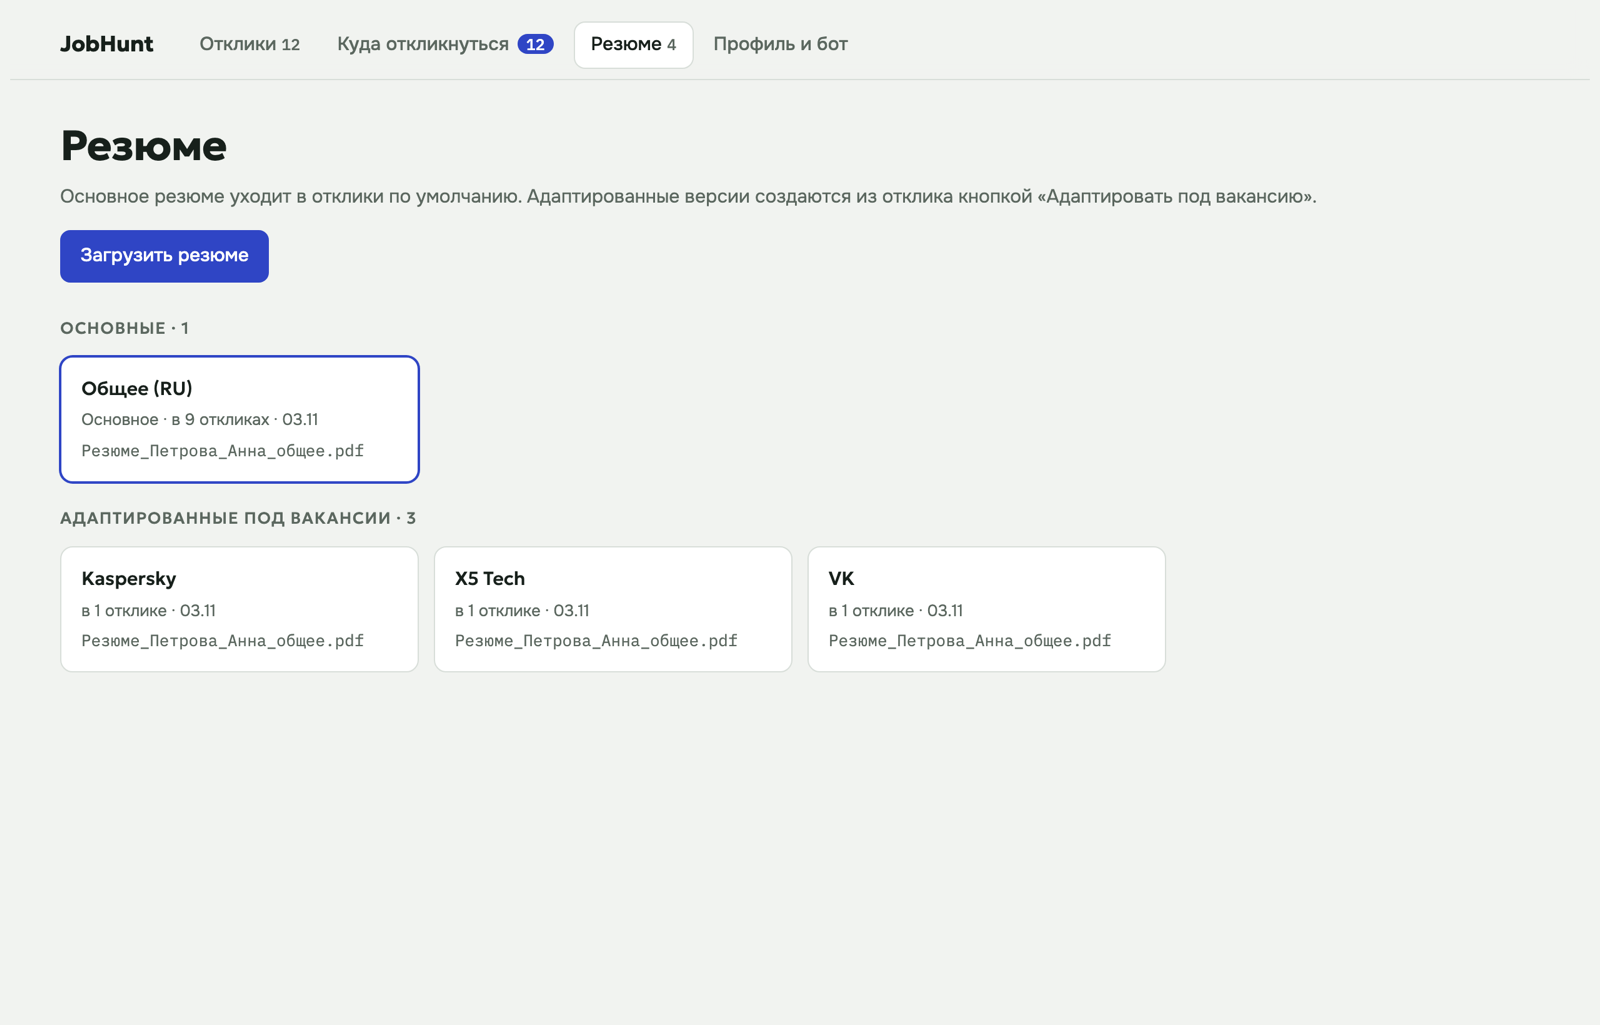
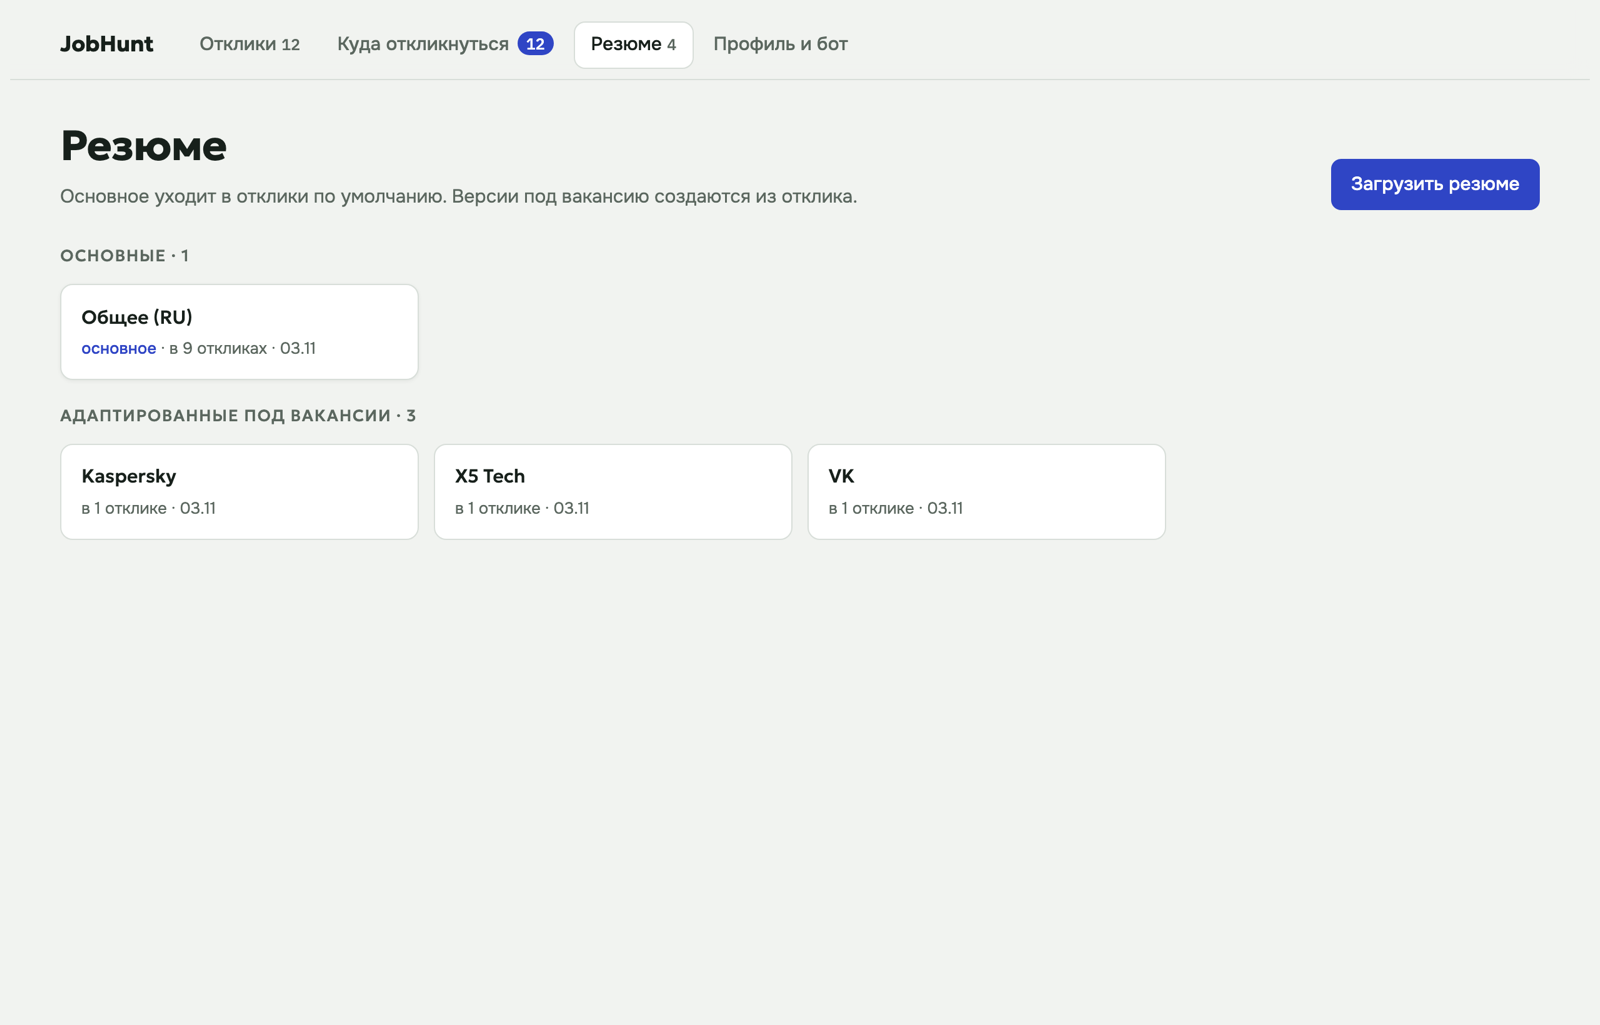
Интерфейс по правилам stageshow: один акцент, без повторов в строках, строка трекера открывается кликом

diff --git a/web/app.js b/web/app.js
@@ -36,6 +36,12 @@
     if (d <= 3) return { cls: 'soon-d', t: 'через ' + d + ' дн.' };
     return { cls: '', t: 'через ' + d + ' дн.' };
   }
+  function prettyName(n) {
+    var s = String(n).replace(/^(Резюме|Resume|CV)_/i, '');
+    var drop = [profile.last_name, profile.first_name, profile.middle_name, 'PM'].filter(Boolean);
+    for (var i = 0; i < 3; i++) drop.forEach(function (w) { s = s.replace(new RegExp('^' + w + '_', 'i'), ''); });
+    return s.replace(/_/g, ' ').trim() || n;
+  }
   function stKey(a) { return STMAP[a.status] ? a.status : 'ready'; }
 
   function api(method, url, body) {
@@ -106,7 +112,7 @@
       : '<button type="button" class="lnk ghost" data-act="edit" data-id="' + id + '">Добавить ссылку</button>';
     var track = a.track ? '<span class="track">' + esc(a.track) + '</span>' : '';
     var resume = '<span class="lbl m">Резюме</span>' + (a.resume
-      ? (a.resume_id ? '<a class="file lnk" href="/api/resumes/' + a.resume_id + '/file" target="_blank">' + esc(a.resume).replace(/_/g, '_<wbr>') + '</a>' : '<span class="file">' + esc(a.resume).replace(/_/g, '_<wbr>') + '</span>')
+      ? (a.resume_id ? '<a class="rlink" href="/api/resumes/' + a.resume_id + '/file" target="_blank" title="' + esc(a.resume) + '">' + esc(prettyName(a.resume)) + '</a>' : '<span class="rlink">' + esc(prettyName(a.resume)) + '</span>')
       : '<span class="role">Не указано</span>');
     var tags = '';
     if (a.cover || a.cover_text) tags += '<span class="tag">сопроводительное</span>';
@@ -127,9 +133,8 @@
     if (a.next) next += '<div class="nx">' + esc(a.next) + (a.next_at ? ' <span class="file">· ' + fmt(a.next_at) + '</span>' : '') + '</div>';
     if (due) next += '<span class="due ' + due.cls + '">' + due.t + '</span>';
     if (a.notes) next += '<p class="nt">' + esc(a.notes) + '</p>';
-    next += '<div class="row-actions"><button type="button" class="mini" data-act="edit" data-id="' + id + '">Изменить</button></div>';
 
-    return '<article class="row st-' + st + (st === 'skipped' ? ' is-skipped' : '') + '">' +
+    return '<article class="row st-' + st + (st === 'skipped' ? ' is-skipped' : '') + '" data-open="' + id + '" tabindex="0" aria-label="' + esc(a.company + ' — ' + a.role) + '">' +
       '<div class="c-main"><div class="co">' + esc(a.company) + '</div><div class="role">' + esc(a.role) + '</div><div class="meta">' + track + link + '</div></div>' +
       '<div class="c-resume">' + resume + '</div>' +
       '<div class="c-date"><span class="lbl m">Дата</span>' + date + '</div>' +
@@ -175,11 +180,20 @@
   $('#sort').addEventListener('change', function (e) { sortBy = e.target.value; try { localStorage.setItem('jh.sort', sortBy); } catch (x) {} renderApps(); });
   $('#list').addEventListener('change', function (e) { var s = e.target.closest('select[data-act="status"]'); if (s) changeStatus(+s.dataset.id, s.value); });
   $('#list').addEventListener('click', function (e) {
-    var b = e.target.closest('button[data-act]'); if (!b) return;
+    var b = e.target.closest('button[data-act]');
+    if (!b) {  // клик по строке (не по ссылке, статусу или кнопке) открывает отклик
+      var row = e.target.closest('[data-open]');
+      if (row && !e.target.closest('a, select, label, button')) openEditor(+row.dataset.open);
+      return;
+    }
     var id = +b.dataset.id;
     if (b.dataset.act === 'edit') openEditor(id);
     if (b.dataset.act === 'applied') changeStatus(id, 'applied');
     if (b.dataset.act === 'go') goApply(byId(id));
+  });
+  $('#list').addEventListener('keydown', function (e) {
+    var row = e.target.closest('[data-open]');
+    if (row && e.target === row && (e.key === 'Enter' || e.key === ' ')) { e.preventDefault(); openEditor(+row.dataset.open); }
   });
   $('#add').addEventListener('click', function () { openEditor(null); });
 
@@ -201,7 +215,7 @@
     var groups = { base: 'Основные', tailored: 'Адаптированные' };
     Object.keys(groups).forEach(function (k) {
       var list = resumes.filter(function (r) { return r.kind === k; });
-      if (list.length) opts += '<optgroup label="' + groups[k] + '">' + list.map(function (r) { return '<option value="' + r.id + '">' + esc(r.name) + (r.is_main ? ' — основное' : '') + '</option>'; }).join('') + '</optgroup>';
+      if (list.length) opts += '<optgroup label="' + groups[k] + '">' + list.map(function (r) { return '<option value="' + r.id + '">' + esc(k === 'tailored' ? prettyName(r.name) : r.name) + (r.is_main ? ' — основное' : '') + '</option>'; }).join('') + '</optgroup>';
     });
     F('resume').innerHTML = opts;
     F('resume').value = sel || '';
@@ -331,15 +345,18 @@
       var g = ago(v.found_at);
       if (g !== last) { html += '<div class="vgroup">Найдено: ' + g + '</div>'; last = g; }
       var applied = v.state === 'applied', saved = v.state === 'saved';
-      html += '<div class="vrow' + (v.watch ? ' watch' : '') + '" data-id="' + v.id + '">' +
-        '<div><div class="vt"><a href="' + esc(safeUrl(v.url)) + '" target="_blank" rel="noopener">' + esc(v.title) + '</a></div>' +
-        '<div class="vm"><span class="vc">' + esc(v.company) + '</span>' + (v.meta && v.source === 'hh.ru' ? '<span>' + esc(v.meta.slice(0, 140)) + '</span>' : '') +
-        '<span class="src">' + esc(v.source) + '</span><span class="score' + (v.score >= 30 ? ' hi' : '') + '" title="Насколько подходит под ваш профиль">' + v.score + '</span></div></div>' +
+      var src = v.source && v.source.toLowerCase() !== String(v.company).toLowerCase() ? '<span class="src">' + esc(v.source) + '</span>' : '';
+      var meta = v.meta && v.source === 'hh.ru' ? '<span>' + esc(v.meta.split(' · ').slice(0, 3).join(' · ')) + '</span>' : '';
+      var fit = v.score >= 35 ? '<span class="fit">подходит</span>' : '';
+      var mine = v.watch && v.source === 'hh.ru' ? '<span class="mine">ваш список</span>' : '';
+      html += '<div class="vrow" data-id="' + v.id + '" tabindex="-1">' +
+        '<div class="vtext"><div class="vt"><a href="' + esc(safeUrl(v.url)) + '" target="_blank" rel="noopener">' + esc(v.title) + '</a>' + fit + '</div>' +
+        '<div class="vm"><span class="vc">' + esc(v.company) + '</span>' + meta + src + mine + '</div></div>' +
         '<div class="va">' +
         (applied ? '<span class="tag">отклик есть</span>' :
-          '<button class="btn primary" data-v="apply">' + (saved ? 'Открыть и заполнить' : 'Откликнуться') + '</button>' +
-          '<button class="mini" data-v="prep" title="Завести отклик и адаптировать резюме и письмо с ИИ">С адаптацией</button>') +
-        (v.state === 'hidden' ? '<button class="mini" data-v="unhide">Вернуть</button>' : '<button class="mini ghost" data-v="hide">Скрыть</button>') +
+          '<button class="mini ghost vhide" data-v="' + (v.state === 'hidden' ? 'unhide' : 'hide') + '">' + (v.state === 'hidden' ? 'Вернуть' : 'Скрыть') + '</button>' +
+          '<button class="mini vprep" data-v="prep" title="Завести отклик и адаптировать резюме и письмо с ИИ">С адаптацией</button>' +
+          '<button class="btn vgo" data-v="apply">' + (saved ? 'Открыть и заполнить' : 'Откликнуться') + '</button>') +
         '</div></div>';
     });
     if (list.length > vacShown) html += '<button class="btn more" id="vmore">Показать ещё ' + Math.min(120, list.length - vacShown) + ' из ' + (list.length - vacShown) + '</button>';
@@ -379,11 +396,6 @@
   /* =================== РЕЗЮМЕ =================== */
   function loadResumesData() { return api('GET', '/api/resumes').then(function (d) { resumes = d; $('#n-res').textContent = d.length || ''; }); }
   function loadResumes() { return loadResumesData().then(renderResumes); }
-  function prettyName(n) {
-    var s = String(n).replace(/^(Резюме|Resume|CV)_/i, '');
-    [profile.last_name, profile.first_name, 'PM'].forEach(function (w) { if (w) s = s.replace(new RegExp('^' + w + '_', 'i'), ''); });
-    return s.replace(/_/g, ' ').trim() || n;
-  }
   function renderResumes() {
     var html = '';
     [['base', 'Основные'], ['tailored', 'Адаптированные под вакансии']].forEach(function (g) {
@@ -392,8 +404,7 @@
       html += '<div class="rsec">' + g[1] + ' · ' + list.length + '</div>';
       html += list.map(function (r) {
         return '<button class="rcard' + (r.is_main ? ' main' : '') + '" data-r="' + r.id + '"><span class="rn">' + esc(r.kind === 'tailored' ? prettyName(r.name) : r.name) + '</span>' +
-          '<span class="rm">' + (r.is_main ? 'Основное · ' : '') + (r.used ? 'в ' + r.used + ' ' + plural(r.used, ['отклике', 'откликах', 'откликах']) + ' · ' : '') + fmt(r.created_at.slice(0, 10)) + '</span>' +
-          '<span class="rm file">' + esc(r.file) + '</span></button>';
+          '<span class="rm">' + (r.is_main ? '<span class="main-tag">основное</span> · ' : '') + (r.used ? 'в ' + r.used + ' ' + plural(r.used, ['отклике', 'откликах', 'откликах']) + ' · ' : '') + fmt(r.created_at.slice(0, 10)) + '</span></button>';
       }).join('');
     });
     $('#rlist').innerHTML = html || '<div class="state"><strong>Резюме нет</strong>Загрузите PDF или DOCX.</div>';
@@ -478,10 +489,12 @@
   });
 
   /* ---------- старт ---------- */
-  Promise.all([loadApps(), loadResumesData(), loadProfileData(), loadVacStats()]).catch(function (e) {
+  Promise.all([loadProfileData(), loadResumesData(), loadVacStats()]).then(loadApps).catch(function (e) {
     $('#lede').textContent = 'Сервер не отвечает: ' + e.message;
   });
   var tab = 'apps'; try { tab = localStorage.getItem('jh.tab') || 'apps'; } catch (e) {}
+  var fromHash = location.hash.replace('#', '');
+  if (['apps', 'vac', 'res', 'prof'].indexOf(fromHash) !== -1) tab = fromHash;
   showTab(tab);
   // данные могли поменяться из расширения
   window.addEventListener('focus', function () { loadApps(); if (!$('#v-vac').hidden) loadVac(); });

diff --git a/web/app.css b/web/app.css
@@ -6,34 +6,47 @@
 .tabs button { border: 0; background: transparent; padding: 0.45rem 0.8rem; border-radius: 8px; color: var(--muted); font-weight: 500; }
 .tabs button[aria-selected="true"] { background: var(--surface); color: var(--ink); box-shadow: 0 0 0 1px var(--line); }
 .tabs .n { font-family: var(--font-mono); font-size: 0.78rem; color: var(--muted); }
-.tabs .badge:not(:empty) { background: var(--accent); color: var(--accent-ink); border-radius: 99px; padding: 0 0.45rem; margin-left: 0.15rem; }
+.tabs .badge:not(:empty) { background: var(--accent); color: var(--accent-ink); border-radius: 99px; padding: 0.1rem 0.45rem; margin-left: 0.15rem; line-height: 1.2; }
 
 .top-actions { display: flex; align-items: center; gap: 0.75rem; flex-wrap: wrap; }
 .run-st { color: var(--muted); font-size: 0.8125rem; }
 .tgl { align-self: end; padding-bottom: 0.55rem; }
 
-/* лента вакансий */
+/* лента вакансий: строки одного веса, действие проявляется на строке под курсором */
 .vlist { display: grid; gap: 0.5rem; }
 .vgroup { font-family: var(--font-display); font-weight: 500; font-size: 0.8125rem; letter-spacing: 0.06em; text-transform: uppercase; color: var(--muted); margin: 0.9rem 0 0.1rem; }
-.vrow { display: grid; grid-template-columns: minmax(0, 1fr) auto; gap: 0.5rem 1rem; align-items: center; background: var(--surface); border: 1px solid var(--line); border-radius: 10px; padding: 0.8rem 1rem; }
-.vrow.watch { border-left: 3px solid var(--accent); }
-.vrow .vt { font-family: var(--font-display); font-weight: 500; font-size: 1rem; overflow-wrap: anywhere; }
-.vrow .vt a { color: inherit; text-decoration: none; }
+.vrow { display: grid; grid-template-columns: minmax(0, 1fr) auto; gap: 0.5rem 1rem; align-items: center; background: var(--surface); border: 1px solid var(--line); border-radius: 10px; padding: 0.8rem 0.8rem 0.8rem 1rem; transition: border-color .15s ease, box-shadow .15s ease; }
+.vrow:hover, .vrow:focus-within { border-color: color-mix(in srgb, var(--accent) 35%, var(--line)); box-shadow: 0 1px 3px rgb(0 0 0 / .05); }
+.vtext { min-width: 0; }
+.vrow .vt { display: flex; flex-wrap: wrap; align-items: baseline; gap: 0.25rem 0.6rem; font-family: var(--font-display); font-weight: 500; font-size: 1rem; line-height: 1.3; }
+.vrow .vt a { color: inherit; text-decoration: none; overflow-wrap: anywhere; }
 .vrow .vt a:hover { text-decoration: underline; text-underline-offset: 3px; }
-.vrow .vc { font-weight: 600; }
-.vrow .vm { color: var(--muted); font-size: 0.8125rem; display: flex; flex-wrap: wrap; gap: 0.2rem 0.75rem; margin-top: 0.2rem; }
-.vrow .va { display: flex; gap: 0.4rem; flex-wrap: wrap; justify-content: flex-end; }
-.src { font-family: var(--font-mono); font-size: 0.72rem; text-transform: uppercase; letter-spacing: 0.04em; }
-.score { font-family: var(--font-mono); font-size: 0.72rem; border-radius: 4px; padding: 0 0.35rem; background: var(--surface-2); border: 1px solid var(--line); }
-.score.hi { background: var(--s-offer-bg); color: var(--s-offer-fg); border-color: transparent; }
+.vrow .vm { color: var(--muted); font-size: 0.8125rem; line-height: 1.3; display: flex; flex-wrap: wrap; gap: 0.2rem 0.75rem; margin-top: 0.3rem; }
+.vrow .vc { font-weight: 600; color: var(--ink); }
+.vrow .src, .vrow .mine { color: var(--muted); }
+.vrow .mine { color: var(--accent); }
+.fit { font-family: var(--font-body); font-size: 0.75rem; font-weight: 500; color: var(--s-offer-fg); background: var(--s-offer-bg); border-radius: 99px; padding: 0.05rem 0.5rem; white-space: nowrap; }
+.vrow .va { display: flex; gap: 0.5rem; align-items: center; justify-content: flex-end; }
+.vgo { white-space: nowrap; }
+.vrow:hover .vgo, .vrow:focus-within .vgo { background: var(--accent); border-color: var(--accent); color: var(--accent-ink); }
+.vprep, .vhide { opacity: 0; transition: opacity .15s ease; }
+.vrow:hover .vprep, .vrow:hover .vhide, .vrow:focus-within .vprep, .vrow:focus-within .vhide { opacity: 1; }
+@media (hover: none) { .vprep, .vhide { opacity: 1; } }
 .more { justify-self: start; }
 @media (max-width: 40rem) { .vrow { grid-template-columns: 1fr; } .vrow .va { justify-content: flex-start; } }
+
+/* трекер: строка целиком открывает отклик */
+.row[data-open] { cursor: pointer; }
+.row[data-open]:focus-visible { outline: 2px solid var(--accent); outline-offset: -2px; }
+.rlink { color: var(--ink); font-size: 0.875rem; text-decoration: none; overflow-wrap: anywhere; }
+a.rlink:hover { color: var(--accent); text-decoration: underline; text-underline-offset: 3px; }
+.nt { display: -webkit-box; -webkit-line-clamp: 2; -webkit-box-orient: vertical; overflow: hidden; }
 
 /* резюме */
 .rgrid { display: grid; gap: 0.75rem; grid-template-columns: repeat(auto-fill, minmax(17rem, 1fr)); }
 .rcard { background: var(--surface); border: 1px solid var(--line); border-radius: 10px; padding: 0.9rem 1rem; display: grid; gap: 0.35rem; align-content: start; cursor: pointer; text-align: left; }
 .rcard:hover { background: var(--surface-2); }
-.rcard.main { border-color: var(--accent); box-shadow: 0 0 0 1px var(--accent); }
+.rcard.main { box-shadow: 0 1px 3px rgb(0 0 0 / .06); }
 .rcard .rn { font-family: var(--font-display); font-weight: 500; overflow-wrap: anywhere; }
 .rcard .rm { color: var(--muted); font-size: 0.8125rem; }
 .rsec { grid-column: 1 / -1; font-family: var(--font-display); font-weight: 500; font-size: 0.8125rem; letter-spacing: 0.06em; text-transform: uppercase; color: var(--muted); margin-top: 0.5rem; }
@@ -55,5 +68,6 @@ a.mini { text-decoration: none; color: inherit; display: inline-flex; align-item
 code { font-family: var(--font-mono); font-size: 0.85em; background: var(--surface-2); padding: 0 0.25rem; border-radius: 4px; }
 .check { display: flex; gap: 0.5rem; align-items: center; }
 .f input[type="number"], .f input[type="email"], .f input[type="tel"] { width: 100%; min-width: 0; border: 1px solid var(--line); background: var(--surface-2); border-radius: 6px; padding: 0.55rem 0.65rem; }
-.rcard .file { overflow: hidden; text-overflow: ellipsis; white-space: nowrap; }
+.main-tag { color: var(--accent); font-weight: 500; }
 .rcard { min-width: 0; }
+.lede .run-st { font-size: inherit; }

diff --git a/web/index.html b/web/index.html
@@ -65,12 +65,9 @@
   <header class="top">
     <div>
       <h1>Куда откликнуться</h1>
-      <p class="lede" id="vac-lede">Бот обходит hh.ru и карьерные сайты компаний и оставляет junior / 1–3 года по продукту, проектам и продуктовой аналитике.</p>
+      <p class="lede" id="vac-lede">Свежие вакансии junior и 1–3 года с hh.ru и карьерных сайтов. <span class="run-st" id="run-st"></span></p>
     </div>
-    <div class="top-actions">
-      <span class="run-st" id="run-st"></span>
-      <button type="button" class="btn primary" id="crawl">Обновить сейчас</button>
-    </div>
+    <button type="button" class="btn primary" id="crawl">Обновить сейчас</button>
   </header>
   <div class="toolbar">
     <div class="search">
@@ -101,7 +98,7 @@
   <header class="top">
     <div>
       <h1>Резюме</h1>
-      <p class="lede">Основное резюме уходит в отклики по умолчанию. Адаптированные версии создаются из отклика кнопкой «Адаптировать под вакансию».</p>
+      <p class="lede">Основное уходит в отклики по умолчанию. Версии под вакансию создаются из отклика.</p>
     </div>
     <label class="btn primary upl">Загрузить резюме<input type="file" id="upload" accept=".pdf,.docx,.txt,.md" hidden></label>
   </header>
